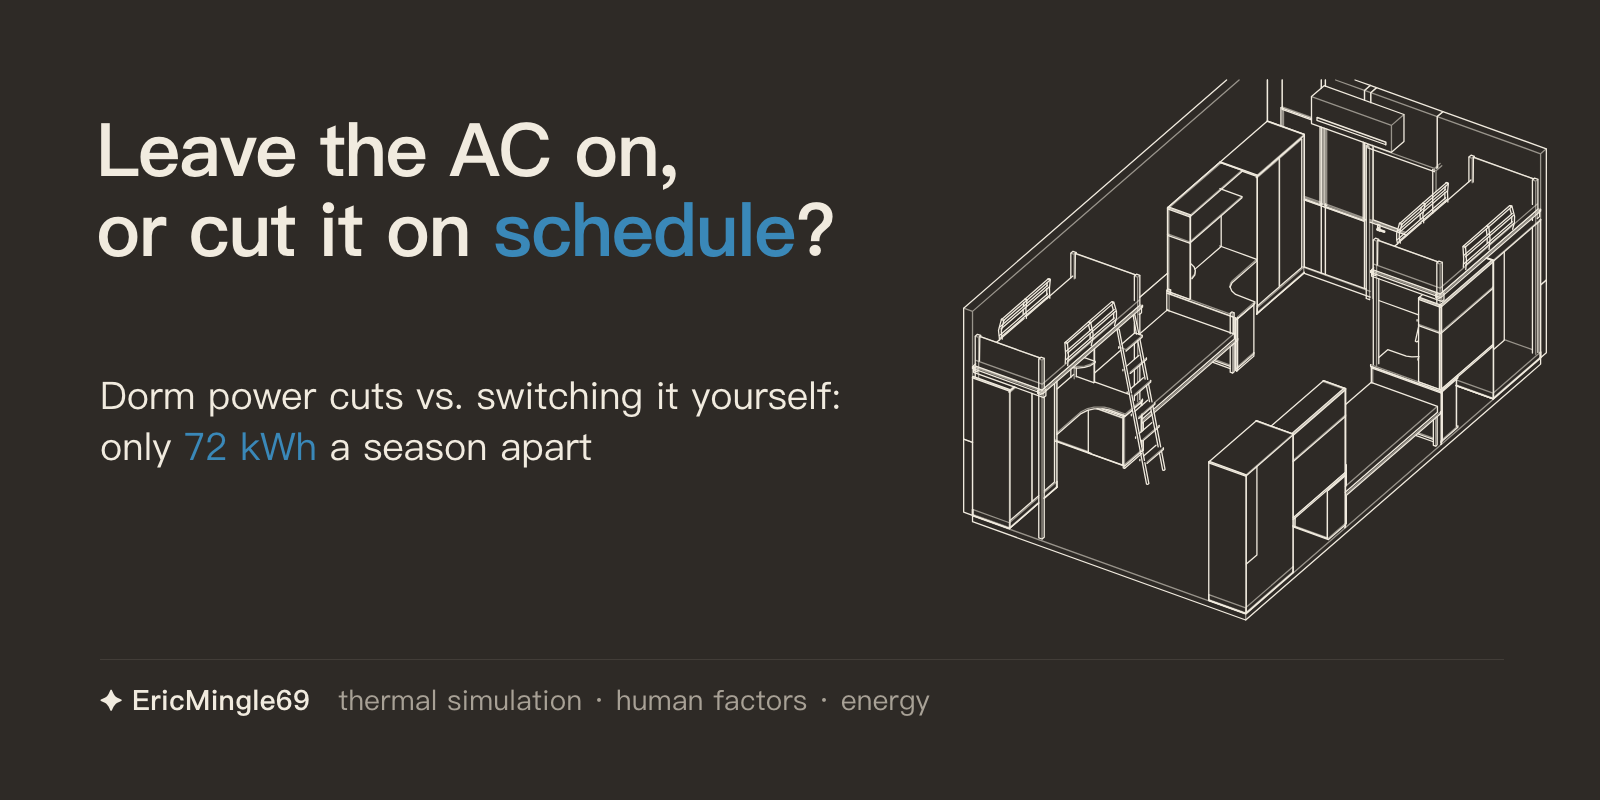
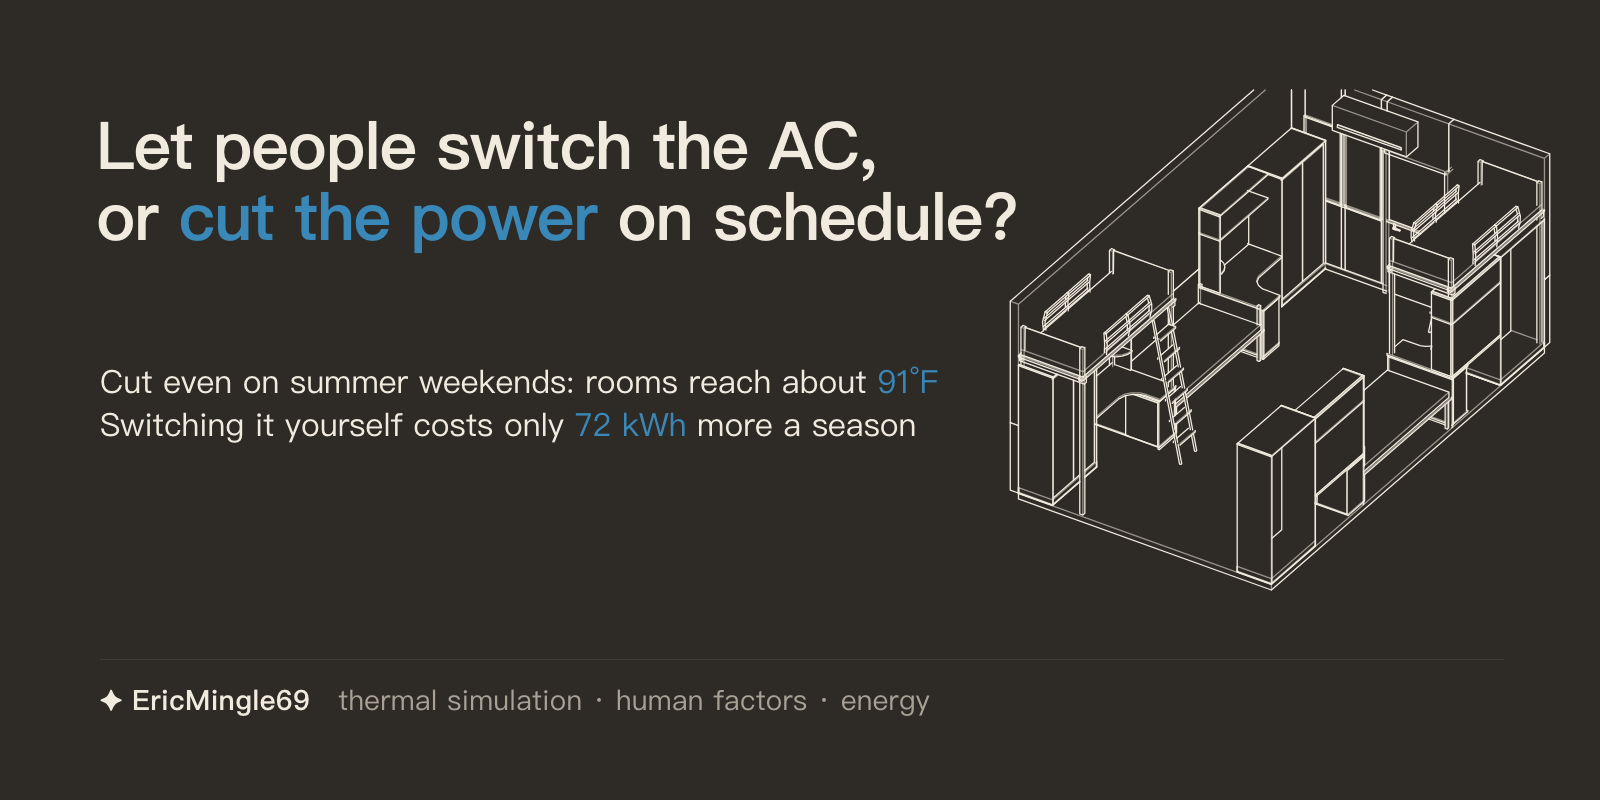
README: frame the question as self-switching vs scheduled cuts, kWh and °F, show the rebuilt dorm

Changed region(s): [[0.0625, 0.0938, 0.9688, 0.7812], [0.6875, 0.6562, 0.7188, 0.6875], [0.6562, 0.6875, 0.6875, 0.7188]]

diff --git a/README.md b/README.md
@@ -1,6 +1,6 @@
 <picture>
   <source media="(prefers-color-scheme: dark)" srcset="readme-assets/cover-zh-dark.png">
-  <img src="readme-assets/cover-zh-light.png" alt="空调开着，还是到点就关？宿舍到点断电，和自己开关空调，一季只差 72 度。" width="100%">
+  <img src="readme-assets/cover-zh-light.png" alt="空调该自己开关，还是到点强制断电？周末和下班后的夏天也断电，屋里最高约 91°F；让人自己开关，一季只多用 72 kWh。" width="100%">
 </picture>
 
 <p align="center">
@@ -29,11 +29,12 @@
 
 ## 结论
 
-**工作日里，强制断电和“人走自己关”耗电几乎一样；多用的电集中在休息日白天有人时。**
+**争议不在开不开空调，而在什么时候能开。工作日里，强制断电和“人走自己关”耗电几乎一样；多用的电集中在休息日和下班后，也就是人在屋里、却被断电的时候。**
 
-- 定频空调：自己开关比强制断电，整季多用约 **72 度**（43–123），每个休息日多约 1.4 度；换来的是休息日有人时能一直开着，不用等来电。
-- 变频空调：整季多用约 56 度（35–90）。
-- 工作日差值中位数 0.03 度/天，取整约 0；跨日蓄热和少量待机差异让它不是严格的零。
+- 定频空调：让人自己开关，比强制断电整季多用约 **72 kWh**（度电，43–123），每个休息日多约 1.4 kWh；换来的是休息日有人时能一直开着，不用等来电。
+- 变频空调：整季多用约 56 kWh（35–90）。
+- 强制断电下，休息日人在屋里，季内最高室温约 **91°F**（32.9°C，范围 87–98°F）。
+- 工作日差值中位数 0.03 kWh/天，取整约 0；跨日蓄热和少量待机差异让它不是严格的零。
 
 口径：中位数（5–95% 情景范围），不是实测置信区间；128 组西向 ±30° 参数样本，二楼非顶层、单面外墙，三种房间、两种空调、七条规则配对计算，人员日历和气象共用。
 
@@ -43,6 +44,27 @@
   <source media="(prefers-color-scheme: dark)" srcset="figures/00_主结论_暗.svg">
   <img src="figures/00_主结论_亮.svg" alt="自己开关空调，比强制断电一季多用约72度" width="830">
 </picture>
+
+## 按真实尺寸重建的宿舍
+
+房间净尺寸 3.70×6.20×2.80 米；两端各 2.10 米桌柜与高架床单元，加中段 2.00 米落地床，组成 6.20 米房长。两张高架床、两张落地床、四张 L 形桌及四只双门柜对应四人的蓄热与在室热源；两扇磨砂窗和阳台门上半对应 1.90 ㎡ 净玻璃，门下半深色铝合金板及框单独作为不透明传热分支。
+
+![俯视全景](scene/images/overview.jpg)
+
+![从入户门看宿舍](scene/images/entry.jpg)
+
+<details>
+<summary><b>更多视角：阳台回望、左墙、右墙</b></summary>
+
+![阳台回望](scene/images/balcony.jpg)
+
+![左墙侧视](scene/images/left.jpg)
+
+![右墙侧视](scene/images/right.jpg)
+
+</details>
+
+<sub>按记忆与照片在 Blender 中重建，尺寸为推算；渲染图本身不参与热计算，热模型用的是同一套尺寸与构件参数。</sub>
 
 ## 怎么算的
 
@@ -163,24 +185,6 @@ uv run --frozen python render_figures.py --report
 
 ## 详细数据
 
-<details>
-<summary><b>这间宿舍</b></summary>
-
-![从入户门看宿舍](scene/images/entry.jpg)
-
-房间净尺寸3.70×6.20×2.80米；两端各2.10米桌柜与高架床单元，加中段2.00米落地床，组成6.20米房长。两张高架床、两张落地床、四张L形桌及四只双门柜对应四人的蓄热与在室热源；两扇磨砂窗和阳台门上半对应1.90㎡净玻璃，门下半深色铝合金板及框单独作为不透明传热分支。
-
-![阳台回望](scene/images/balcony.jpg)
-
-![俯视全景](scene/images/overview.jpg)
-
-![左墙侧视](scene/images/left.jpg)
-
-![右墙侧视](scene/images/right.jpg)
-
-<small>示意图，按记忆与照片重建，尺寸为推算；不参与计算。</small>
-
-</details>
 
 <details>
 <summary><b>数据表、口径与模型边界</b></summary>

diff --git a/README.en.md b/README.en.md
@@ -1,6 +1,6 @@
 <picture>
   <source media="(prefers-color-scheme: dark)" srcset="readme-assets/cover-en-dark.png">
-  <img src="readme-assets/cover-en-light.png" alt="Leave the AC on, or cut it on schedule? Dorm power cuts vs. switching it yourself: only 72 kWh a season apart." width="100%">
+  <img src="readme-assets/cover-en-light.png" alt="Let people switch the AC, or cut the power on schedule? Cut even on summer weekends, rooms reach about 91°F; switching it yourself costs only 72 kWh more a season." width="100%">
 </picture>
 
 <p align="center">
@@ -29,10 +29,11 @@ Honestly, it is a bit absurd. To get to use the air conditioner, I first had to 
 
 ## Results
 
-**On workdays, the scheduled cut and "switch it off when you leave" use almost the same energy; the extra use falls on rest days when people are in the room.**
+**The dispute is not whether to run the AC but when it may run. On workdays, the scheduled cut and "switch it off when you leave" use almost the same energy; the extra use falls on rest days and after work, exactly when people are in the room but the power is off.**
 
-- Fixed-speed unit: switching it yourself uses about **72 kWh** more per season than the scheduled cut (43–123), about 1.4 kWh per rest day. In return, people can keep the AC on during rest days instead of waiting for power.
+- Fixed-speed unit: letting people switch it themselves uses about **72 kWh** more per season than the scheduled cut (43–123), about 1.4 kWh per rest day. In return, people can keep the AC on during rest days instead of waiting for power.
 - Inverter unit: about 56 kWh more per season (35–90).
+- Under the scheduled cut, the season peak on rest days with people in the room is about **91°F** (32.9°C; range 87–98°F).
 - Workday difference: median 0.03 kWh/day, roughly zero; thermal storage across days and a little standby keep it from being exactly zero.
 
 Basis: medians (5–95% scenario range), not measured confidence intervals; 128 paired parameter samples, west-facing ±30°, second floor not top, one exterior wall; three room sizes, two AC types and seven rules computed in pairs with shared occupancy calendars and weather.
@@ -43,6 +44,27 @@ Basis: medians (5–95% scenario range), not measured confidence intervals; 128 
   <source media="(prefers-color-scheme: dark)" srcset="figures/00_主结论_暗.svg">
   <img src="figures/00_主结论_亮.svg" alt="Switching the AC yourself uses about 72 kWh more per season than the scheduled cut" width="830">
 </picture>
+
+## The dorm, rebuilt at real size
+
+Net room size 3.70 × 6.20 × 2.80 m: a 2.10 m desk-and-loft unit at each end and a 2.00 m floor-bed section in the middle make up the 6.20 m length. Two loft beds, two floor beds, four L-shaped desks and four double lockers provide the thermal mass and occupant heat of four people; two frosted windows and the upper half of the balcony door give 1.90 m² of net glazing, and the dark aluminium lower door panel and frames are a separate opaque heat path.
+
+![Top view](scene/images/overview.jpg)
+
+![From the entrance](scene/images/entry.jpg)
+
+<details>
+<summary><b>More views: from the balcony, left wall, right wall</b></summary>
+
+![From the balcony](scene/images/balcony.jpg)
+
+![Left wall](scene/images/left.jpg)
+
+![Right wall](scene/images/right.jpg)
+
+</details>
+
+<sub>Rebuilt in Blender from memory and photos; dimensions are estimates. The renders themselves are not used in the heat calculation, which uses the same dimensions and component parameters.</sub>
 
 ## How it was computed
 
